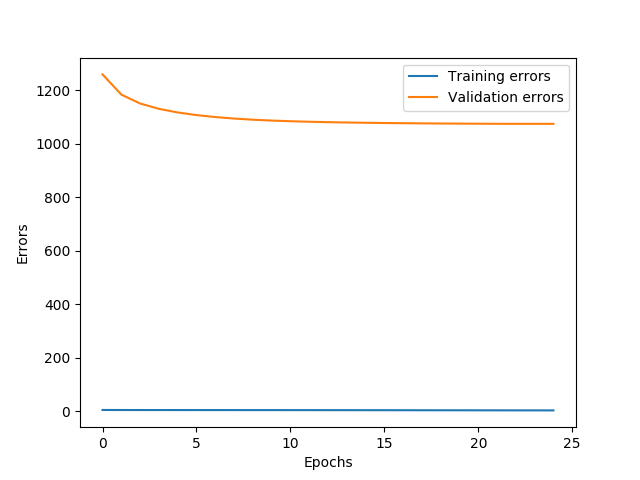
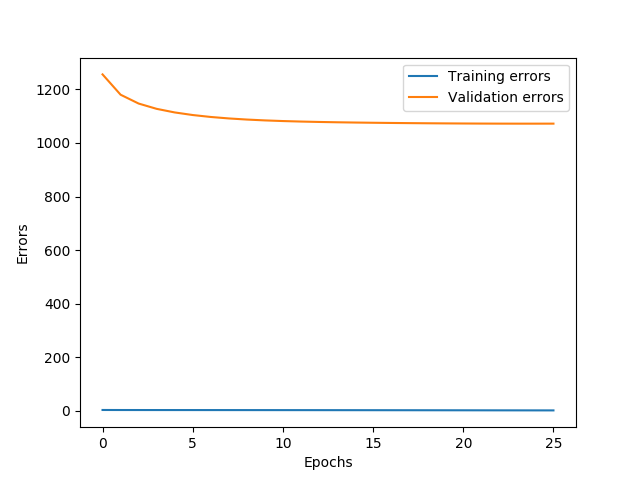
changes on while,now is with difference only

diff --git a/practice2/nn_iris.py b/practice2/nn_iris.py
@@ -84,7 +84,7 @@ validation_error = 0.1
 epoch = 0
 difference = 100.0
 
-while validation_error <= last_validation_error and difference > 0.001:
+while difference > 0.001:
     epoch += 1
 
     for jj in xrange(len(x_training_data) / batch_size):
@@ -107,7 +107,6 @@ while validation_error <= last_validation_error and difference > 0.001:
 
     if epoch > 1:
         difference = validation_errors[-2] - validation_error
-    last_validation_error = validation_errors[-1]
     # Training
     print_results(mode="Training", error=training_error, batch_xs=batch_training_xs, batch_ys=batch_training_ys,
                   epoch_number=epoch)
@@ -115,6 +114,8 @@ while validation_error <= last_validation_error and difference > 0.001:
     # Validation
     print_results(mode="Validation", error=validation_error, batch_xs=x_validation_data, batch_ys=y_validation_data,
                   epoch_number=epoch)
+
+
     print "----------------------------------------------------------------------------------"
 
 print "----------------------"

diff --git a/practice2/nn_mnist.py b/practice2/nn_mnist.py
@@ -79,7 +79,7 @@ epoch = 0
 validation_error = 0.1
 difference = 100.0
 
-while validation_error <= last_validation_error and difference > 0.001:
+while difference > 0.001:
     epoch += 1
     for jj in xrange(len(train_x) / batch_size):
         batch_training_xs = train_x[jj * batch_size: jj * batch_size + batch_size]
@@ -93,7 +93,6 @@ while validation_error <= last_validation_error and difference > 0.001:
     validation_errors.append(validation_error)
     if epoch > 1:
         difference = validation_errors[-2] - validation_error
-    last_validation_error = validation_errors[-1]
 
     print epoch
     #print_results(mode="Training", error=training_error, batch_xs=batch_training_xs, batch_ys=batch_training_ys,epoch_number=epoch)
